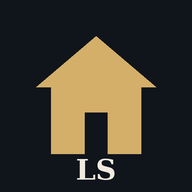
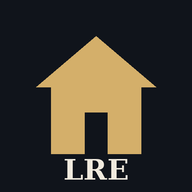
Nombre: LoReal Estate
Claude-Session: https://claude.ai/code/session_011qL9Prh5bs3ZmRCVgdThX8

Changed region(s): [[0.3125, 0.8125, 0.6875, 0.9375]]

diff --git a/LorealState/index.html b/LorealState/index.html
@@ -4,14 +4,14 @@
 <meta charset="utf-8">
 <meta name="viewport" content="width=device-width, initial-scale=1, viewport-fit=cover">
 <meta name="theme-color" content="#10141b">
-<title>Loreal State · Zonas de Córdoba</title>
+<title>LoReal Estate · Zonas de Córdoba</title>
 <meta name="description" content="Las mejores zonas de Córdoba capital para comprar y vender propiedades, en un mapa.">
 <link rel="icon" href="favicon.png">
 <link rel="manifest" href="manifest.webmanifest">
 <link rel="apple-touch-icon" href="icon-180.png">
 <meta name="apple-mobile-web-app-capable" content="yes">
 <meta name="mobile-web-app-capable" content="yes">
-<meta name="apple-mobile-web-app-title" content="Loreal State">
+<meta name="apple-mobile-web-app-title" content="LoReal Estate">
 <meta name="apple-mobile-web-app-status-bar-style" content="black-translucent">
 <link rel="preconnect" href="https://fonts.googleapis.com">
 <link rel="preconnect" href="https://fonts.gstatic.com" crossorigin>
@@ -24,7 +24,7 @@
   <div class="marca">
     <svg viewBox="0 0 24 24" class="logo" aria-hidden="true"><path d="M12 3 2 11.5h2.5V21h6v-5.5h3V21h6v-9.5H22z"/></svg>
     <div>
-      <div class="nombre">Loreal <span>State</span></div>
+      <div class="nombre">LoReal <span>Estate</span></div>
       <div class="sub" id="estado">Córdoba capital</div>
     </div>
   </div>
@@ -118,7 +118,7 @@
 
 <div class="dlg" id="dlgAyuda" hidden>
   <div class="dlg-card">
-    <h2>Cómo leer Loreal State</h2>
+    <h2>Cómo leer LoReal Estate</h2>
     <p><b>Comprar</b> ordena las zonas por precio de entrada, renta por alquiler y potencial de crecimiento.</p>
     <p><b>Vender</b> las ordena por demanda, rapidez de venta y valorización.</p>
     <p>El puntaje va de 0 a 100. Tocá una zona para ver su área en el mapa, los motivos y los avisos reales en los portales.</p>

diff --git a/LorealState/sw.js b/LorealState/sw.js
@@ -1,5 +1,5 @@
 // Loreal State: primero busca lo nuevo; sin conexión usa lo guardado
-const CACHE = 'loreal-state-v3';
+const CACHE = 'loreal-estate-v4';
 const BASE = ['./', 'index.html', 'styles.css', 'app.js', 'config.js', 'data/zonas.json', 'vendor/leaflet/leaflet.css', 'vendor/leaflet/leaflet.js', 'icon-192.png'];
 self.addEventListener('install', e => { self.skipWaiting(); e.waitUntil(caches.open(CACHE).then(c => c.addAll(BASE)).catch(() => {})); });
 self.addEventListener('activate', e => e.waitUntil(self.clients.claim()));
